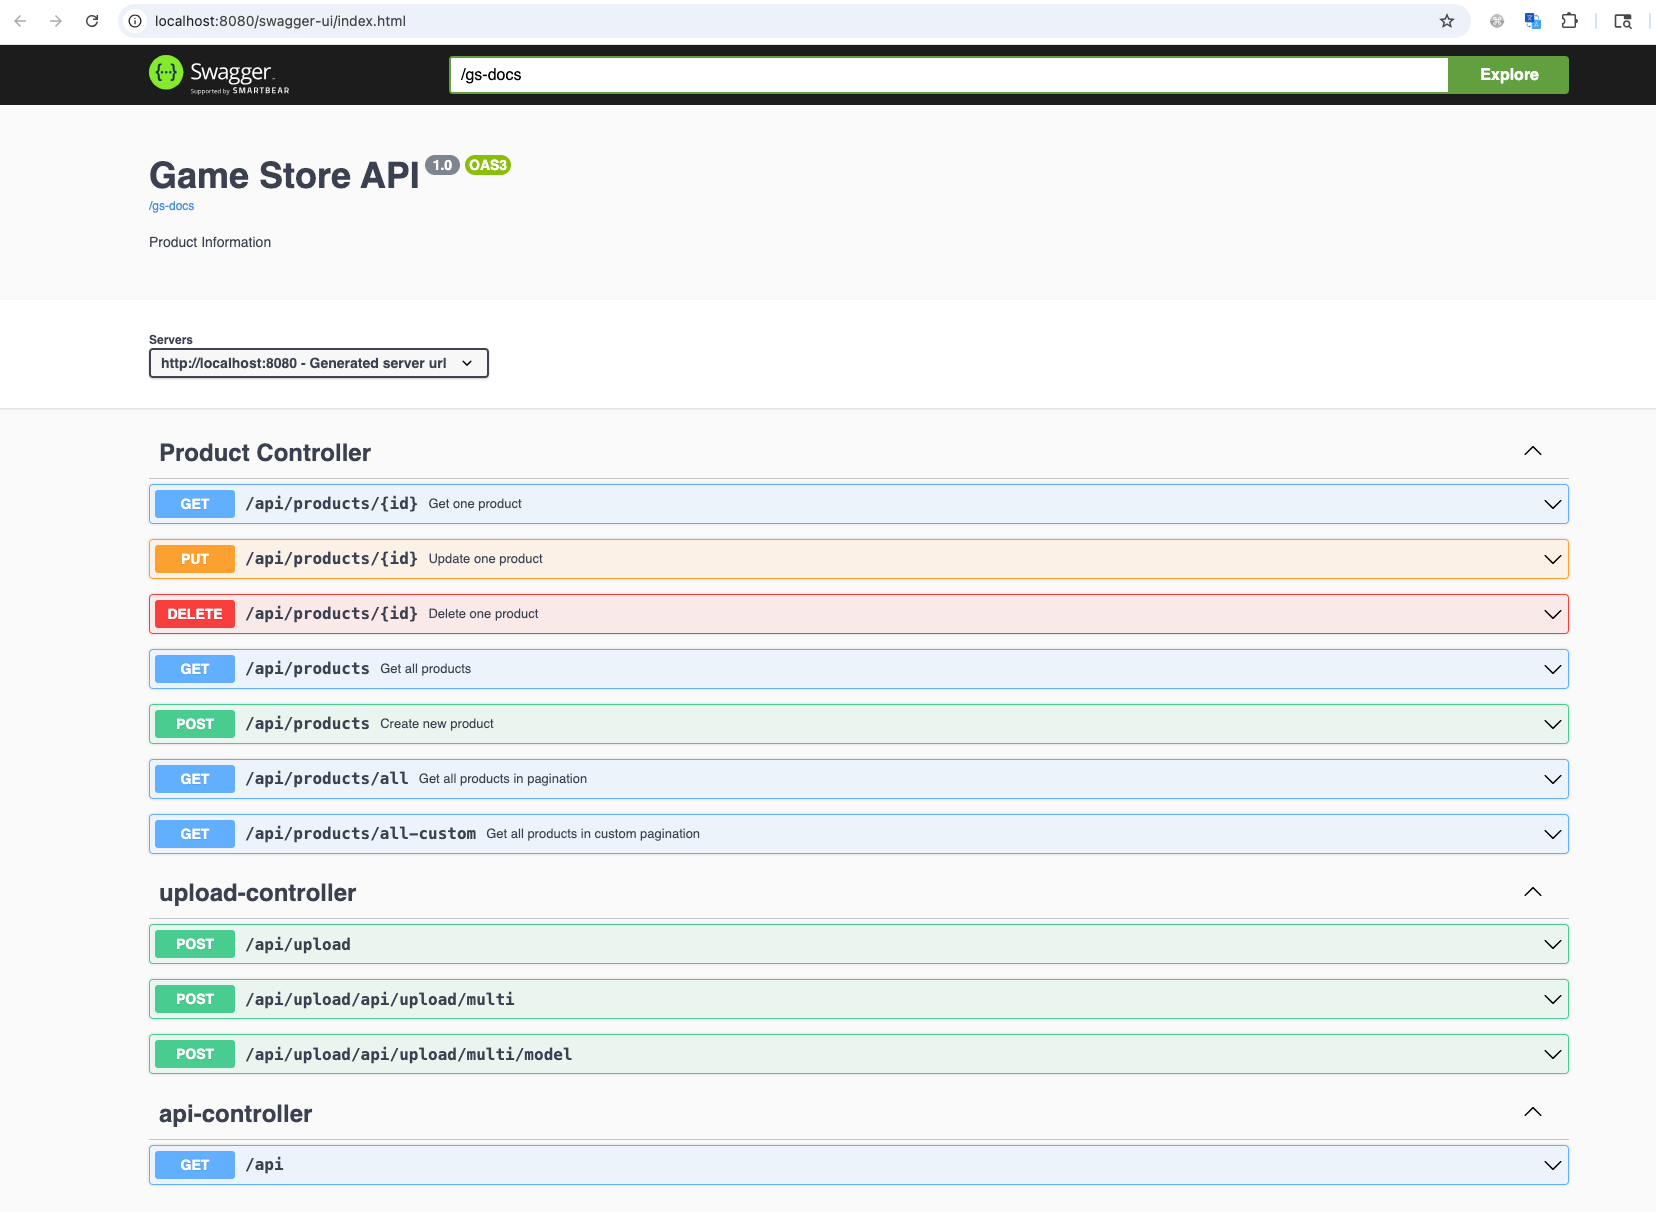
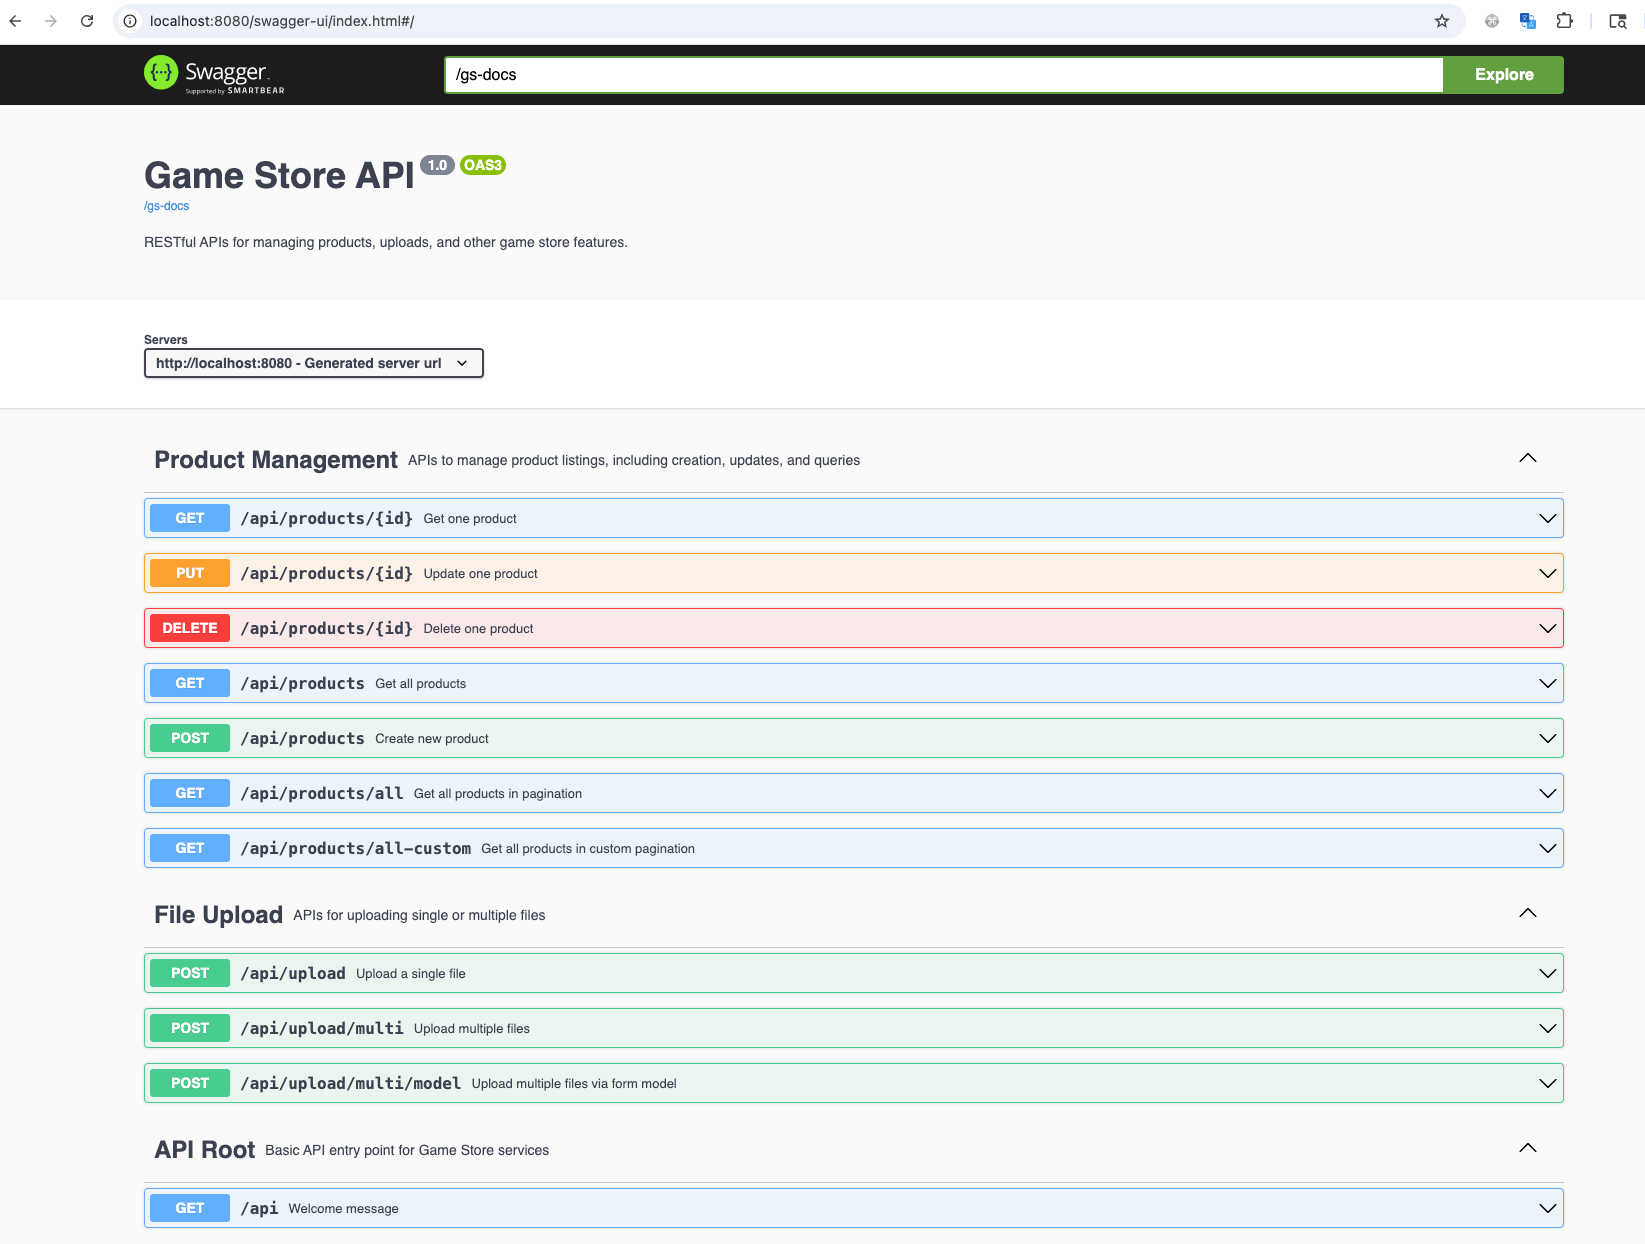
Add doc for upload controller and refine existing doc

diff --git a/src/main/java/johnny/gamestore/springboot/controller/UploadController.java b/src/main/java/johnny/gamestore/springboot/controller/UploadController.java
@@ -3,6 +3,12 @@ package johnny.gamestore.springboot.controller;
 import johnny.gamestore.springboot.model.ResponseResult;
 import johnny.gamestore.springboot.model.UploadModel;
 import johnny.gamestore.springboot.service.FileStorageService;
+import io.swagger.v3.oas.annotations.Operation;
+import io.swagger.v3.oas.annotations.Parameter;
+import io.swagger.v3.oas.annotations.media.Content;
+import io.swagger.v3.oas.annotations.media.Schema;
+import io.swagger.v3.oas.annotations.responses.ApiResponse;
+import io.swagger.v3.oas.annotations.tags.Tag;
 import org.springframework.beans.factory.annotation.Autowired;
 import org.springframework.http.HttpStatus;
 import org.springframework.http.ResponseEntity;
@@ -18,15 +24,26 @@ import java.util.Arrays;
 import java.util.List;
 import java.util.stream.Collectors;
 
+@Tag(name = "File Upload", description = "APIs for uploading single or multiple files")
 @RestController
 @RequestMapping("/api/upload")
 public class UploadController extends BaseController {
   @Autowired
   private FileStorageService fileStorageService;
 
-  // 3.1.1 Single file upload
+  @Operation(
+      summary = "Upload a single file",
+      description = "Uploads a single file and returns the file URL.",
+      responses = {
+        @ApiResponse(responseCode = "200", description = "File uploaded successfully",
+          content = @Content(schema = @Schema(implementation = ResponseResult.class))),
+        @ApiResponse(responseCode = "400", description = "Invalid file or upload error")
+      }
+    )
   @PostMapping("")
-  public ResponseEntity<?> uploadFile(@RequestParam("file") MultipartFile uploadfile) {
+  public ResponseEntity<?> uploadFile(
+      @Parameter(description = "File to upload", required = true)
+      @RequestParam("file") MultipartFile uploadfile) {
     if (uploadfile.isEmpty()) {
       return ResponseEntity.ok().body("please select a file!");
     }
@@ -43,15 +60,26 @@ public class UploadController extends BaseController {
     return ResponseEntity.ok(rr);
   }
 
-  // 3.1.2 Multiple file upload
+  @Operation(
+      summary = "Upload multiple files",
+      description = "Uploads multiple files with an extra form field.",
+      responses = {
+        @ApiResponse(responseCode = "200", description = "Files uploaded successfully"),
+        @ApiResponse(responseCode = "400", description = "Upload failed or invalid files")
+      }
+    )
   @PostMapping("/multi")
-  public ResponseEntity<?> uploadFileMulti(@RequestParam("extraField") String extraField,
-                                           @RequestParam("files") MultipartFile[] uploadfiles) {
-    // Get file name
-    String uploadedFileName = Arrays.stream(uploadfiles).map(x -> x.getOriginalFilename())
-        .filter(x -> !StringUtils.isEmpty(x)).collect(Collectors.joining(","));
+  public ResponseEntity<?> uploadFileMulti(
+      @Parameter(description = "Extra metadata field", example = "exampleField")
+      @RequestParam("extraField") String extraField,
+      @Parameter(description = "Files to upload", required = true)
+      @RequestParam("files") MultipartFile[] uploadfiles) {
+    String uploadedFileName = Arrays.stream(uploadfiles)
+        .map(MultipartFile::getOriginalFilename)
+        .filter(StringUtils::hasText)
+        .collect(Collectors.joining(","));
 
-    if (StringUtils.isEmpty(uploadedFileName)) {
+    if (!StringUtils.hasText(uploadedFileName)) {
       return ResponseEntity.ok().body("please select a file!");
     }
 
@@ -64,9 +92,18 @@ public class UploadController extends BaseController {
     return ResponseEntity.ok().body("Successfully uploaded - " + uploadedFileName);
   }
 
-  // 3.1.3 maps html form to a Model
+  @Operation(
+      summary = "Upload multiple files via form model",
+      description = "Uploads multiple files using a model binding form submission.",
+      responses = {
+        @ApiResponse(responseCode = "200", description = "Files uploaded successfully"),
+        @ApiResponse(responseCode = "400", description = "Upload failed or invalid form")
+      }
+  )
   @PostMapping("/multi/model")
-  public ResponseEntity<?> multiUploadFileModel(@ModelAttribute UploadModel model) {
+  public ResponseEntity<?> multiUploadFileModel(
+      @Parameter(description = "Upload form model", required = true)
+      @ModelAttribute UploadModel model) {
     try {
       saveUploadedFiles(Arrays.asList(model.getFiles()));
     } catch (IOException e) {
@@ -76,7 +113,6 @@ public class UploadController extends BaseController {
     return ResponseEntity.ok().body("Successfully uploaded!");
   }
 
-  //save file
   private String[] saveUploadedFiles(List<MultipartFile> files) throws IOException {
     String[] fileUrls = new String[files.size()];
     int index = 0;
@@ -84,7 +120,6 @@ public class UploadController extends BaseController {
       if (file.isEmpty()) {
         continue;
       }
-
       fileUrls[index] = fileStorageService.storeFile(file);
       index++;
     }

diff --git a/src/main/java/johnny/gamestore/springboot/controller/ApiController.java b/src/main/java/johnny/gamestore/springboot/controller/ApiController.java
@@ -1,15 +1,23 @@
 package johnny.gamestore.springboot.controller;
 
+import io.swagger.v3.oas.annotations.Operation;
+import io.swagger.v3.oas.annotations.responses.ApiResponse;
+import io.swagger.v3.oas.annotations.tags.Tag;
 import org.springframework.web.bind.annotation.GetMapping;
 import org.springframework.web.bind.annotation.RequestMapping;
 import org.springframework.web.bind.annotation.RestController;
 
-/**
- * The root path of the RESTful API.
- */
+@Tag(name = "API Root", description = "Basic API entry point for Game Store services")
 @RestController
 @RequestMapping("/api")
 public class ApiController {
+  @Operation(
+      summary = "Welcome message",
+      description = "Returns a simple greeting message to confirm the API is running.",
+      responses = {
+        @ApiResponse(responseCode = "200", description = "API is up and responding with welcome message")
+      }
+  )
   @GetMapping("")
   public String home() {
     return "Hello! welcome to game store api!";

diff --git a/src/main/java/johnny/gamestore/springboot/controller/ProductController.java b/src/main/java/johnny/gamestore/springboot/controller/ProductController.java
@@ -13,6 +13,7 @@ import io.swagger.v3.oas.annotations.media.Content;
 import io.swagger.v3.oas.annotations.media.Schema;
 import io.swagger.v3.oas.annotations.responses.ApiResponse;
 import io.swagger.v3.oas.annotations.responses.ApiResponses;
+import io.swagger.v3.oas.annotations.tags.Tag;
 import org.springframework.beans.factory.annotation.Autowired;
 import org.springframework.data.domain.Page;
 import org.springframework.data.web.HateoasPageableHandlerMethodArgumentResolver;
@@ -34,6 +35,9 @@ import java.util.Collections;
 import java.util.List;
 import javax.validation.Valid;
 
+@Tag(
+    name = "Product Management",
+    description = "APIs to manage product listings, including creation, updates, and queries")
 @RestController
 @RequestMapping("/api/products")
 public class ProductController extends BaseController {

diff --git a/src/main/java/johnny/gamestore/springboot/GameStoreApplication.java b/src/main/java/johnny/gamestore/springboot/GameStoreApplication.java
@@ -5,7 +5,13 @@ import io.swagger.v3.oas.annotations.info.Info;
 import org.springframework.boot.SpringApplication;
 import org.springframework.boot.autoconfigure.SpringBootApplication;
 
-@OpenAPIDefinition(info = @Info(title = "Game Store API", version = "1.0", description = "Product Information"))
+@OpenAPIDefinition(
+    info = @Info(
+      title = "Game Store API",
+      version = "1.0",
+      description = "RESTful APIs for managing products, uploads, and other game store features."
+    )
+)
 @SpringBootApplication
 public class GameStoreApplication {
   public static void main(String[] args) {
